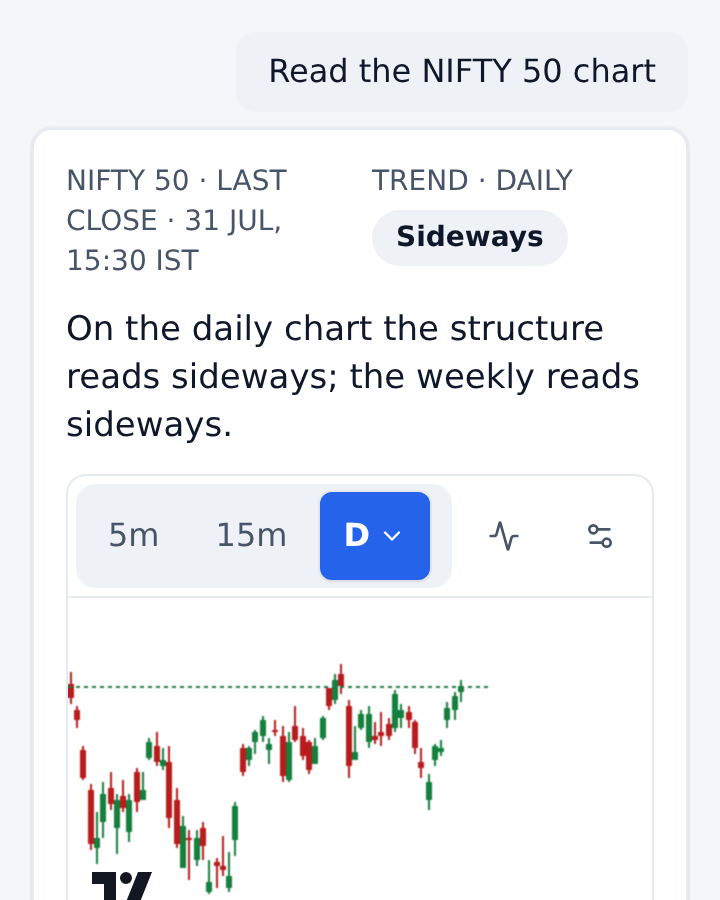
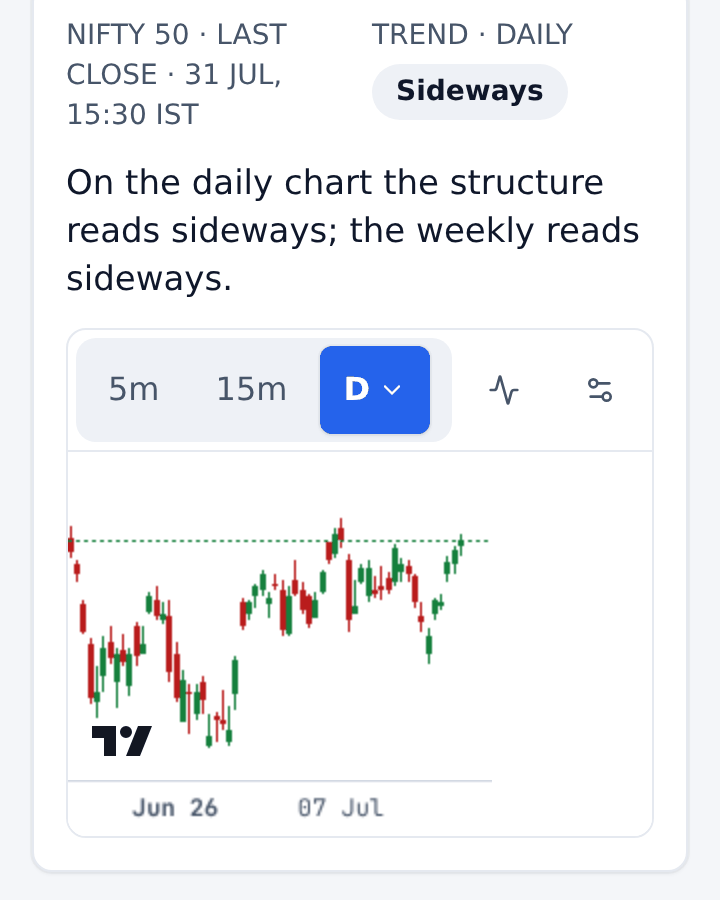
M95: front-door benefit images - index data as of 31 Jul 2026, prices hidden
Six real app screens (production build, mocked API) at 720 x 900, light: Copilot chart
answer, option chain OI, Find setups, Trading bot, Journal discipline score, Daily report.
NIFTY 50 / BANK NIFTY only; every price figure and price axis hidden by capture-page CSS;
the capture checks the visible words for amounts, price-like figures and other names.
Journal image pinned in check_public_repo (made-up scores and counts).

Claude-Session: https://claude.ai/code/session_01DartbPxmHrAyA5TTsS4Pys

diff --git a/frontend/scripts/front-images/front-images.e2e.ts b/frontend/scripts/front-images/front-images.e2e.ts
@@ -77,7 +77,7 @@ const BASE_CSS = [
   "*, *::before, *::after { font-family: 'DejaVu Sans', sans-serif !important; caret-color: transparent !important; transition: none !important; animation: none !important; }",
   "* { scrollbar-width: none !important; } *::-webkit-scrollbar { display: none !important; }",
   // A crop of the screen: the bottom bar's room goes to the screen itself.
-  "[data-bottom-nav-v2] { display: none !important; }",
+  "[data-bottom-nav-v2], [data-chat-bubble] { display: none !important; }",
 ].join("\n");
 
 async function prepare(page: Page, features: Record<string, boolean>, extra: Partial<MockOptions> = {}, dismissed: string[] = [], at = AT) {
@@ -121,6 +121,15 @@ async function visibleText(page: Page): Promise<string[]> {
   });
 }
 
+/** Scrolls the page so the element's top sits `gap` px below the screen's top. */
+async function toTop(page: Page, selector: string, gap = 8) {
+  // Twice: a top bar that folds away on scroll moves the element after the first jump.
+  for (let i = 0; i < 2; i++) {
+    await page.locator(selector).first().evaluate((el, g) => { document.scrollingElement!.scrollTop += el.getBoundingClientRect().top - g; }, gap);
+    await page.waitForTimeout(300);
+  }
+}
+
 async function capture(page: Page, slug: string, hideCss: string, place?: () => Promise<void>) {
   await page.addStyleTag({ content: BASE_CSS + "\n" + hideCss });
   if (place) await place();
@@ -128,6 +137,12 @@ async function capture(page: Page, slug: string, hideCss: string, place?: () => 
   await page.waitForTimeout(400);
   const words = await visibleText(page);
   writeFileSync(join(RAW, `${slug}.txt`), words.join("\n") + "\n");
+  // M95-Q1 checks on the words on screen (the chart canvases are checked by eye): no amount, no price-like figure
+  // (a thousands separator or two decimals; the chain's OI counts are the one allowed use), no other name.
+  const text = words.join(" ");
+  expect(text, "no rupee amount").not.toMatch(/₹|\bRs\.?\s?\d/);
+  if (slug !== "option-chain") expect(text, "no price-like figure").not.toMatch(/\d,\d{3}|\d\.\d{2}\b(?!%)/);
+  expect(text, "only the two indices").not.toMatch(/STOCK\d|DEMO[A-D]\b|TEST[A-D]{3}|RELIANCE|SENSEX|VIX|FINNIFTY/i);
   await page.screenshot({ path: join(RAW, `${slug}.png`), animations: "disabled" });
   const overflow = await page.evaluate(() => document.documentElement.scrollWidth - window.innerWidth);
   expect(overflow, "no sideways scroll").toBeLessThanOrEqual(0);
@@ -202,12 +217,10 @@ test("copilot", async ({ page }) => {
   await page.waitForLoadState("networkidle");
   await capture(page, "copilot", [HIDE_CHART_PRICES,
     "[data-headline-price], [data-headline-live], [data-headline] > div:has([data-headline-area]) { display: none !important; }",
-    "[data-composer='bottom'] { display: none !important; }"].join("\n"), async () => {
-    await page.getByText("You asked").first().evaluate((el) => {
-      const top = el.getBoundingClientRect().top + window.scrollY;
-      const scroller = document.scrollingElement!;
-      scroller.scrollTop = top - 64;
-    });
+    // The question box and what follows the mini chart in the card (the action row, the folded details): the chart
+    // answer then ends with its chart in the phone crop.
+    "[data-composer='bottom'], [data-answer='chart'] [data-mini-chart] ~ * { display: none !important; }"].join("\n"), async () => {
+    await toTop(page, "[data-answer='chart']");
   });
 });
 
@@ -244,16 +257,23 @@ test("option-chain", async ({ page }) => {
   await page.waitForLoadState("networkidle");
   await page.locator("[data-summary-more]").click();
   // Hidden: every price card (spot, ATM strike, max pain, futures, OI walls), the strike and premium columns. Shown:
-  // PCR, ATM IV, days to expiry and OI by side (its bars and the highest-OI marks).
+  // PCR, ATM IV and OI by side (its bars and the highest-OI marks).
   await capture(page, "option-chain", [
     "[data-summary='spot'], [data-summary='atm'], [data-summary='max-pain'], [data-summary='futures'], [data-summary='oi-walls'], [data-summary-more] { display: none !important; }",
+    // Days to expiry too, so PCR and IV share one row and the chain has the room.
+    "[data-summary='dte'] { display: none !important; }",
     "[data-chain-scroll] [data-col$='-ltp'], [data-chain-scroll] tr > th[scope='row'], [data-chain-scroll] th[data-front-hide] { display: none !important; }",
   ].join("\n"), async () => {
     // The header cells of the hidden columns (they carry no data attribute of their own): marked here, hidden above.
     await page.locator("[data-chain-scroll] thead th").evaluateAll((els) => els.forEach((e) => {
       if (/LTP|Strike/.test(e.textContent ?? "")) e.setAttribute("data-front-hide", "");
     }));
-    await page.evaluate(() => window.scrollTo(0, 0));
+    await toTop(page, "[data-block='chain-summary']");
+    // The chain's own scroll box ends inside the crop (its rows scroll there, as on a phone), not cut by the crop's edge.
+    await page.locator("[data-chain-scroll]").evaluate((el) => {
+      const box = el as HTMLElement;
+      box.style.maxHeight = `${window.innerHeight - box.getBoundingClientRect().top - 8}px`;
+    });
   });
 });
 
@@ -279,9 +299,8 @@ test("find-setups", async ({ page }) => {
   await page.goto("/screener");
   await expect(page.getByTestId("start-scan")).toBeVisible({ timeout: 15_000 });
   await page.waitForLoadState("networkidle");
-  await capture(page, "find-setups", "", async () => {
-    await page.getByTestId("screener-hero").evaluate((el) => { document.scrollingElement!.scrollTop = el.getBoundingClientRect().top + window.scrollY - 64; });
-  });
+  // Hidden: each ready scan's formula line (its name and Run stay) and the phone's run bar (it floats where the hidden bottom bar was; nothing is picked yet).
+  await capture(page, "find-setups", "[data-testid='ready-scans'] li .line-clamp-1, [data-testid='screener-bottom-bar'] { display: none !important; }", () => toTop(page, "[data-testid='screener-hero']"));
 });
 
 test("trading-bot", async ({ page }) => {
@@ -308,20 +327,24 @@ test("trading-bot", async ({ page }) => {
   await page.goto("/deployments");
   await page.waitForLoadState("networkidle");
   await expect(page.locator("[aria-busy='true']")).toHaveCount(0, { timeout: 15_000 });
-  await capture(page, "trading-bot", "");
+  await capture(page, "trading-bot", "", () => toTop(page, "[data-block='bots']"));
 });
 
 test("journal", async ({ page }) => {
   await prepare(page, { ui_v2: true, discipline_engine: true, phase0_paper_only: true }, { brokers: [] }, ["journal"]);
-  // Four paper entries on the two indices in the as-of week; amounts and prices are hidden below (outcome words stay).
+  // The e2e journal answers moved to the two indices and the as-of week. The picture is the Week tab's discipline score
+  // (scores and counts, no amount); the list behind the Trades tab is mocked only because the page reads it first.
   const day = (d: number, hm: string) => { const t = new Date(`${ASOF}T${hm}:00+05:30`); t.setUTCDate(t.getUTCDate() - d); return t.toISOString(); };
   const list = { ...DEMO_LIST, setups: ["Buyer area", "Seller area"], tags: ["late entry"],
     entries: DEMO_LIST.entries.map((e, i) => ({ ...e, symbol: i % 2 ? "NIFTY BANK" : "NIFTY 50", source: "ATP", source_label: null, outside_atp: false,
       kind: "trade", mode: "PAPER", entry_time: day(i, "10:05"), exit_time: e.exit_time ? day(i, "13:40") : null, tags: [], user_tags: i === 2 ? ["late entry"] : [] })) };
   await page.route(/\/api(?:\/v1)?\/journal\/entries(\?.*)?$/, (r) => r.fulfill({ json: list }));
   await page.route(/\/api(?:\/v1)?\/journal\/stats(\?.*)?$/, (r) => r.fulfill({ json: DEMO_STATS }));
-  const monday = day(4, "00:00");
-  const week = { ...DEMO_WEEK, week: "2026-W31", start: monday, end: day(-3, "00:00"),
+  const asof = new Date(`${ASOF}T00:00:00Z`);
+  const back = (asof.getUTCDay() + 6) % 7;                                  // days since Monday
+  const thursday = new Date(asof); thursday.setUTCDate(asof.getUTCDate() - back + 3);
+  const isoWeek = Math.ceil(((thursday.getTime() - Date.UTC(thursday.getUTCFullYear(), 0, 1)) / 86_400_000 + 1) / 7);
+  const week = { ...DEMO_WEEK, week: `${thursday.getUTCFullYear()}-W${String(isoWeek).padStart(2, "0")}`, start: day(back, "00:00"), end: day(back - 7, "00:00"),
     entries: DEMO_WEEK.entries.map((e, i) => ({ ...e, symbol: i % 2 ? "NIFTY BANK" : "NIFTY 50", entry_time: day(i + 1, "10:05"), exit_time: day(i + 1, "13:40") })),
     manual_entries: [] };
   await page.route(/\/api(?:\/v1)?\/journal\/week(\?.*)?$/, (r) => r.fulfill({ json: week }));
@@ -330,9 +353,13 @@ test("journal", async ({ page }) => {
   await expect(page.locator("[data-block='journal-list']")).toBeVisible({ timeout: 15_000 });
   await page.getByRole("tab", { name: "Week" }).click();
   await page.waitForLoadState("networkidle");
-  // Hidden: every amount and R figure (the row's signed result and its R), the server-drawn chart thumbnails (price axis).
-  await capture(page, "journal", "[data-journal-row] [data-signed], [data-journal-row] .mt-px > .font-tabular, [data-chart-thumb] { display: none !important; }", async () => {
-    await page.getByRole("tabpanel").first().evaluate((el) => { document.scrollingElement!.scrollTop = el.getBoundingClientRect().top + window.scrollY - 64; });
+  // On the Week tab: the discipline score card only (the cards after it would be cut by the crop).
+  await capture(page, "journal", "[data-front-score] ~ * { visibility: hidden !important; }", async () => {
+    await page.getByText("Discipline score").first().evaluate((el) => {
+      const card = el.closest("section, [data-block], div.rounded-panel") ?? el;
+      card.setAttribute("data-front-score", "");
+      document.scrollingElement!.scrollTop = card.getBoundingClientRect().top + window.scrollY - 8;
+    });
   });
 });
 
@@ -349,7 +376,9 @@ test("daily-report", async ({ page }) => {
   const report = { ...REPORT, trade_date: ASOF, generated_at: `${ASOF}T13:00:00Z`, info_line: `Last close ${when} · AI-generated · information only, not advice`,
     index: [indexRow(n)],
     sections: { ...REPORT.sections,
-      index_read: `${n} closed ${changePct(n) >= 0 ? "higher" : "lower"}; its daily structure is ${words[dailyWord(n)]}, the weekly ${words[weeklyWord(n)]}.` } };
+      index_read: dailyWord(n) === weeklyWord(n)
+        ? `${n} closed ${changePct(n) >= 0 ? "higher" : "lower"}; daily and weekly structure ${words[dailyWord(n)]}.`
+        : `${n} closed ${changePct(n) >= 0 ? "higher" : "lower"}; daily structure ${words[dailyWord(n)]}, weekly ${words[weeklyWord(n)]}.` } };
   await page.route(/\/api(?:\/v1)?\/daily-report\/latest$/, (r) => r.fulfill({ json: { report } }));
   await page.goto("/copilot/read");
   const card = page.locator("[data-daily-report]");
@@ -359,8 +388,9 @@ test("daily-report", async ({ page }) => {
   await expect(sheet).toBeVisible();
   await page.waitForLoadState("networkidle");
   // Hidden: the index close (the first figure of its row of four), the page behind the sheet (its card repeats the
-  // close) and the parts between the index read and the conclusion (stock breadth, sectors, names).
+  // close) and the parts after the index read (stock breadth, sectors, names) and each part's repeat of the
+  // information line (the sheet's top line keeps it).
   await capture(page, "daily-report", ["[data-daily-report-body] [data-report-part] > .grid > div:first-child { display: none !important; }",
     "#root { visibility: hidden !important; }",
-    "[data-daily-report-body] > [data-report-part]:not(:first-child):not(:last-child) { display: none !important; }"].join("\n"));
+    "[data-daily-report-body] > [data-report-part]:not(:first-child), [data-report-part] [data-report-info] { display: none !important; }"].join("\n"));
 });

diff --git a/frontend/scripts/front-images/playwright.config.ts b/frontend/scripts/front-images/playwright.config.ts
@@ -2,8 +2,12 @@ import { defineConfig } from "@playwright/test";
 
 /**
  * M95: makes the front door's six benefit images (public/front/<slug>.png) from the app's own screens on a mocked API.
- * Run from frontend/: `npx vite build`, then `npx playwright test -c scripts/front-images/playwright.config.ts`
- * (PW_CHROMIUM may point at a preinstalled Chromium), then `python3 scripts/front-images/shrink.py`.
+ * Run from frontend/:
+ * 1. `python3 scripts/front-images/prepare_bars.py --asof <a day at least three months old> --out /tmp/front-bars.json
+ *    --bars "NIFTY 50=<daily CSV>" --bars "NIFTY BANK=<daily CSV>"` (real index bars from a private store; never committed);
+ * 2. `npx vite build`; 3. `FRONT_BARS=/tmp/front-bars.json npx playwright test -c scripts/front-images/playwright.config.ts`
+ *    (PW_CHROMIUM may point at a preinstalled Chromium; raw shots and their visible words go to FRONT_RAW, /tmp/front-raw);
+ * 4. `python3 scripts/front-images/shrink.py` writes public/front/<slug>.png; look at each before committing.
  */
 export default defineConfig({
   testDir: ".",

diff --git a/scripts/check_public_repo.py b/scripts/check_public_repo.py
@@ -131,6 +131,9 @@ ALLOWED_TEST_DATA: Dict[str, str] = {
[3 lines of base64/hex data omitted]
+    # M95: the front door's Journal image - the Week tab's discipline score on the e2e journal fixture (made-up scores
+    # and counts, no amount, no price); re-pin after regenerating it (frontend/scripts/front-images/)
[1 lines of base64/hex data omitted]
     # ATP-generated goldens on synthetic, seeded inputs (each regeneration site names this list)
[2 lines of base64/hex data omitted]

diff --git a/frontend/scripts/front-images/prepare_bars.py b/frontend/scripts/front-images/prepare_bars.py
@@ -30,7 +30,7 @@ def main() -> None:
     ap.add_argument("--keep", type=int, default=160, help="bars kept per symbol")
     ap.add_argument("--out", required=True)
     a = ap.parse_args()
-    if dt.date.fromisoformat(a.asof) > dt.date.today() - dt.timedelta(days=92):
+    if dt.date.fromisoformat(a.asof) > dt.datetime.now(dt.timezone.utc).date() - dt.timedelta(days=92):
         raise SystemExit("the as-of date must be at least three months old (M95-Q1)")
     out = {"asof": a.asof, "symbols": {}}
     for item in a.bars:
